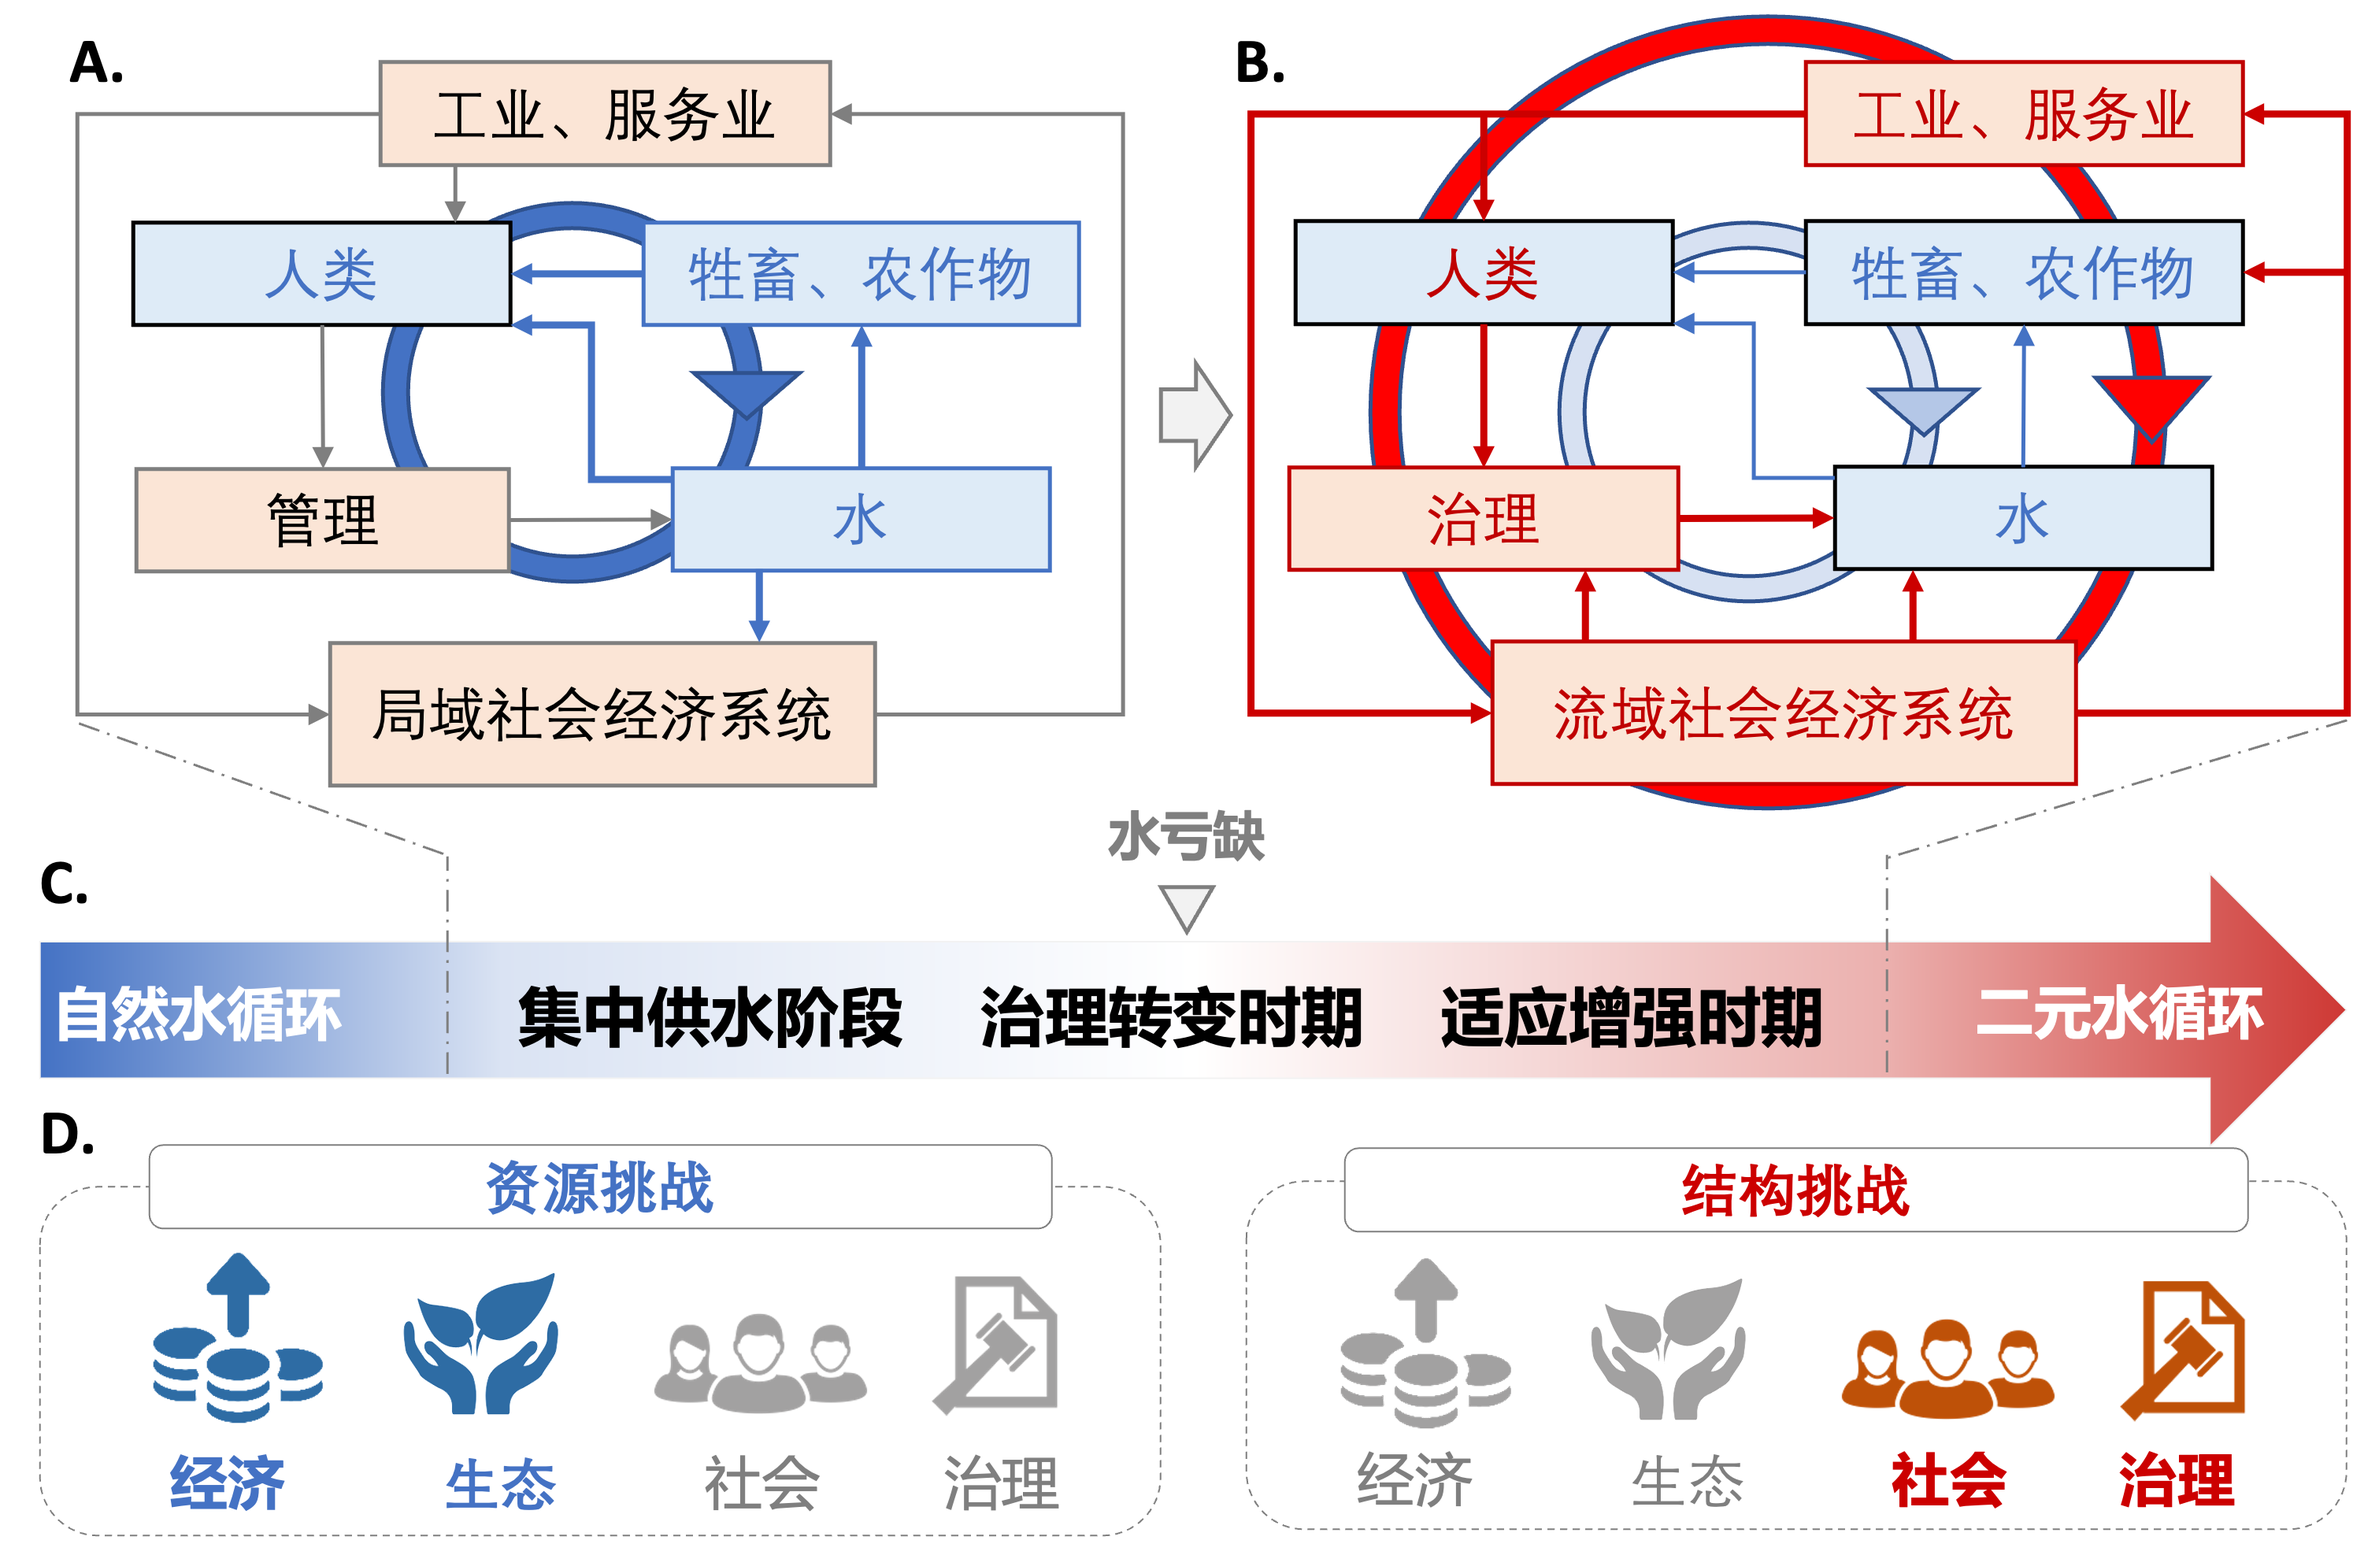
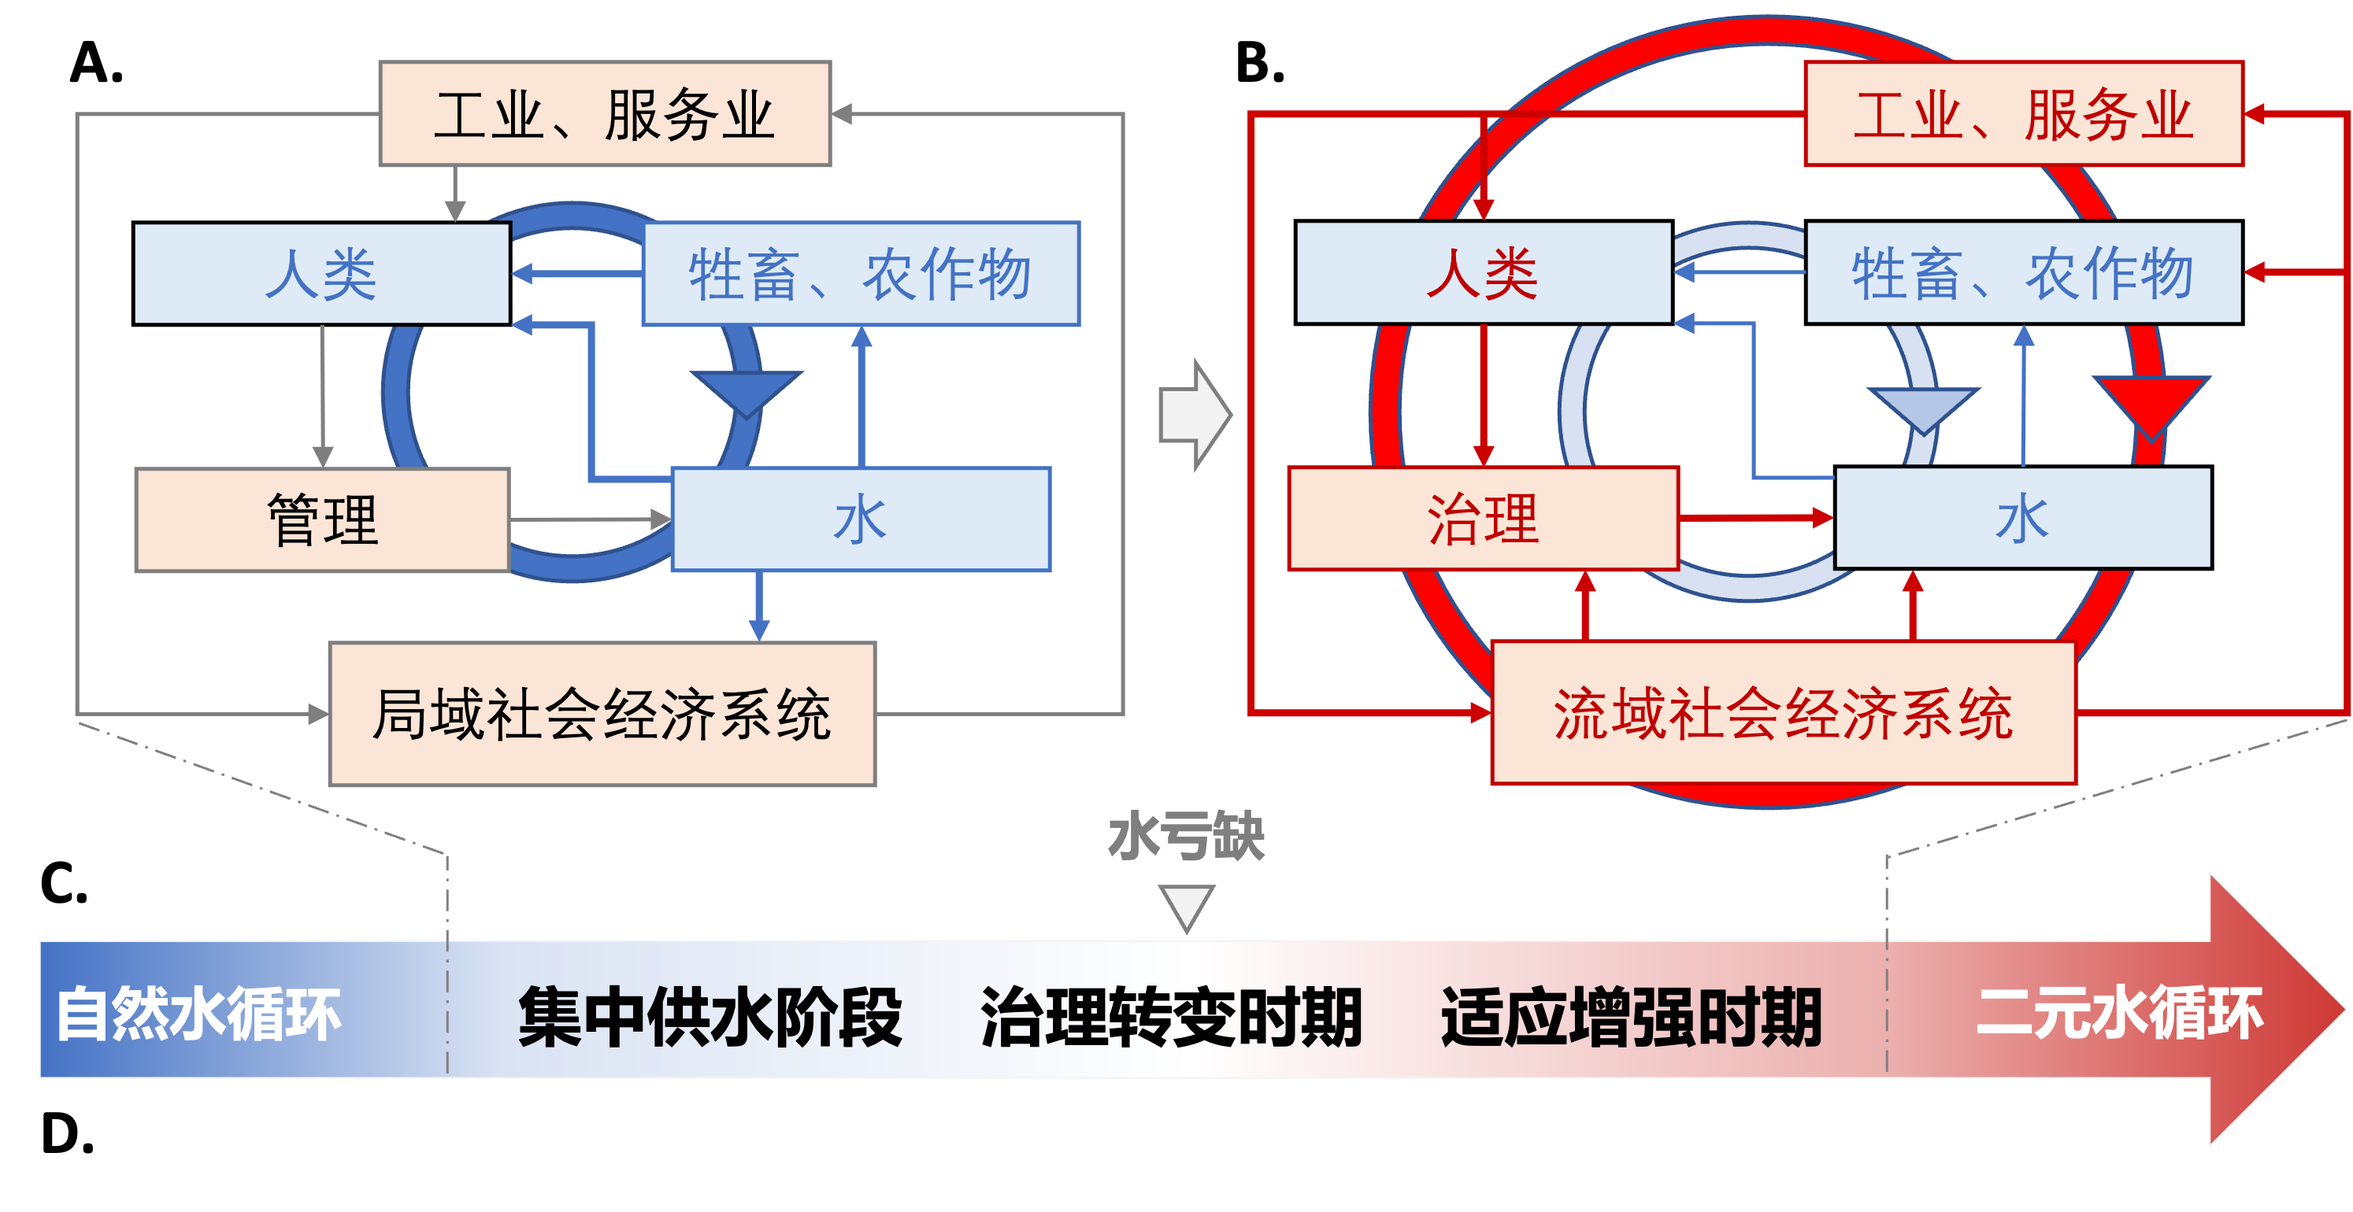
feat(chapter-4): :sparkles: 增加对一般过度的描述并改图

diff --git a/chapter4/source/ch4_discussion.tex b/chapter4/source/ch4_discussion.tex
@@ -18,18 +18,24 @@
 通过不同行业和地区对流域水资源的广泛重建，通过日益强化的社会-经济过程调整以前粗放的发展模式以及刚性的制度约束，这些都是水治理适应性增强的体现，才能在有限的供水条件下优化平衡来自不同地区、不同行业的需求\cite{dalin2015,song2022}
 
 黄河流域的水治理演化过程是“增大供给、治理转变、适应增强”的突出的案例，而其中变化的内在机制已在世界人类主导流域社会-水循环的过程中广泛出现（图~\ref{fig:summary}）。
+图~\ref{fig:summary}~A和B中的大循环箭头示意不同时期主导的社会、水文过程，其中A图所示的阶段由水文循环主导，B中则由社会-经济过程主导。
+供给性用水（包括图~\ref{fig:summary}中人类、牲畜、农作物用水），以及非供给性的工业、服务业的用水与自然-社会二元水循环的关系如图所示，灰色粗箭头代表量比较少，红色箭头表示更重要。
+为了支持早期的区域社会经济系统用水，流域治理策略倾向于为了维系水循环的稳定而管理自然水过程。
+在图~\ref{fig:summary}~B所示的阶段开始强调在全流域范围内进行水资源调度，由逐渐增强的社会经济系统的需求调整水治理策略，并适应性地进行水治理。
+
+在人类主导的流域社会-水文循环模式下，水治理转变常发生在水资源亏缺之后，在社会-经济过程主导下推动适应能力快速增长。
 随着社会-经济过程对水循环影响加深，不同时期的流域面临不同的水治理挑战：在前期主要是经济和环境方面，在后期集中于与制度和政策方面。
 放眼全球其它流域，以水资源短缺和供水困难为代表的水治理挑战是制约发展中流域的瓶颈\cite{allan2019,speed2013,liu2012a}。
 人类社会-经济过程主导的发达流域（特别是跨界河流）则须重点解决结构性挑战，如水纠纷或缺乏公平\cite{mirumachi2015}。
 本章研究开发并使用的综合水治理指数（IWGI）可以将流域水治理变化过程与这些挑战联系起来，提供了一种解释人类活动主导下人-水关系变化的方法。
 
-\begin{figure}[htbp!]
+\begin{figure}[!htbp]
 	\includegraphics[width=\textwidth]{img/ch4/ch4_transition.png}
 	\caption[人类主导下流域系统的水治理阶段过渡]{
 		人类主导下流域系统的水治理变化过程。蓝色代表人类活动尚未成为主导的社会-水文循环，红色代表由社会经济过程主导的流域水过程。
         \textbf{A.}随着社会经济系统的发展，用以非供给服务的水需求增加；同时，通过水库等工程措施使人们能够控制水循环并局部缓解水资源压力。
         \textbf{B.}随着人为干预升级，不同地区和部门间的用水权衡愈发突出；流域亟需提升利用效率和调度能力，并组织起的更具适应性的水治理。
-        \textbf{C.}在人类主导的流域社会-水文循环模式下，水治理转变常发生在水资源亏缺之后，在社会-经济过程主导下推动适应能力快速增长。在此之前水治理主要面临经济和环境挑战，但随后面临社会和政策挑战。
+        % \textbf{C.}在人类主导的流域社会-水文循环模式下，水治理转变常发生在水资源亏缺之后，在社会-经济过程主导下推动适应能力快速增长。在此之前水治理主要面临经济和环境挑战，但随后面临社会和政策挑战。
 	}\label{fig:summary}
 \end{figure}
 
